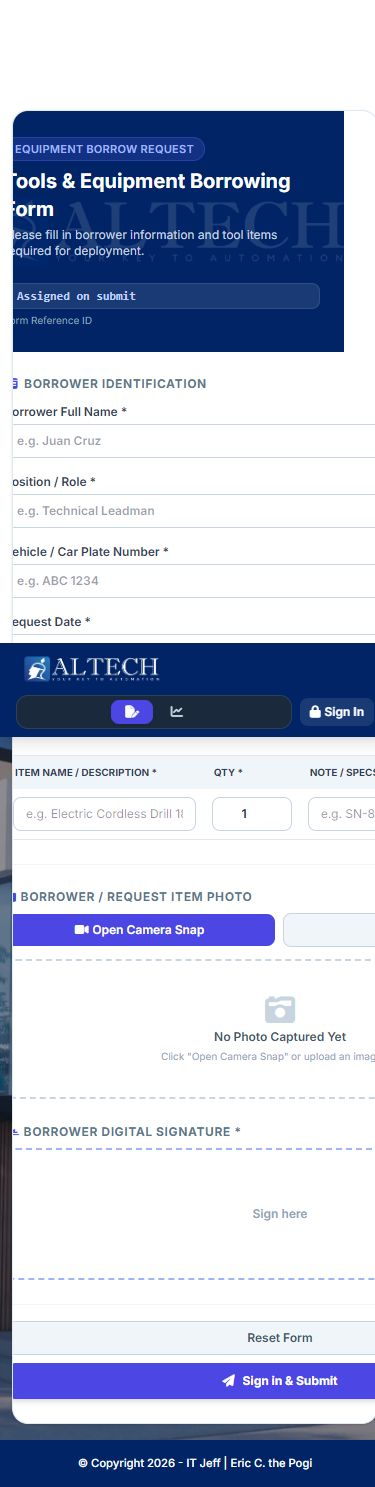
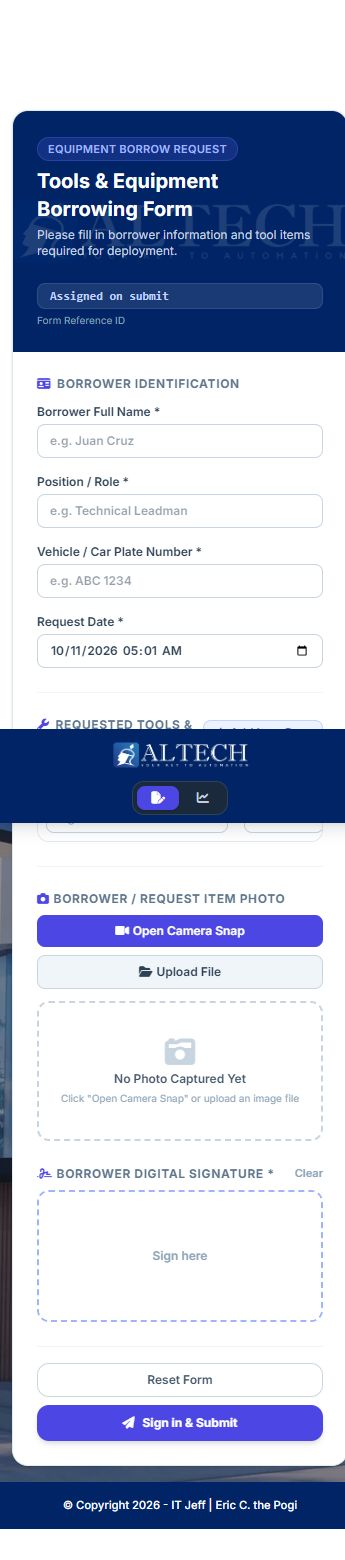
Center controls and adapt forms and request cards for mobile

diff --git a/frontend/src/features/Dashboard.tsx b/frontend/src/features/Dashboard.tsx
@@ -123,7 +123,7 @@ export function Dashboard({
         ))}
       </div>
       <div className="dashboard-actions bg-white p-4 rounded-xl border shadow-sm flex flex-col gap-4">
-        <div className="flex flex-wrap gap-2">
+        <div className="flex flex-wrap justify-center gap-2">
           <button className="btn-secondary" onClick={() => open("qr")}>
             <i className="fas fa-qrcode mr-1" />
             Generate QR
@@ -157,7 +157,7 @@ export function Dashboard({
             Refresh
           </button>
         </div>
-        <div className="flex flex-col sm:flex-row gap-2">
+        <div className="flex flex-col sm:flex-row justify-center gap-2">
           <input
             className="input sm:max-w-xs"
             aria-label="Search requests"
@@ -196,7 +196,7 @@ export function Dashboard({
           <span className="text-xs text-slate-400">Updates every 30s</span>
         </div>
         <div className="overflow-x-auto">
-          <table className="data-table">
+          <table className="data-table request-records">
             <thead>
               <tr>
                 {[
@@ -214,38 +214,38 @@ export function Dashboard({
             <tbody>
               {filtered.map((r) => (
                 <tr key={r.id}>
-                  <td className="font-mono max-w-56 break-all">
+                  <td data-label="Reference / Date" className="font-mono max-w-56 break-all">
                     <b>{r.reference}</b>
                     <p className="text-[10px] text-slate-400">
                       {formatDate(r.request_date)}
                     </p>
                   </td>
-                  <td>
+                  <td data-label="Borrower">
                     <b>{r.borrower_name}</b>
                     <p className="text-[11px] text-slate-500">
                       {r.position} • {r.plate}
                     </p>
                   </td>
-                  <td>
+                  <td data-label="Tools">
                     {r.items.map((i) => (
                       <span className="badge inline-block mr-1 mb-1" key={i.id}>
                         {i.name} ({i.returned_qty}/{i.requested_qty} ret)
                       </span>
                     ))}
                   </td>
-                  <td>
+                  <td data-label="Handover / Return">
                     Rel: {r.released_name || "-"}
                     <br />
                     Rec: {r.received_name || "-"}
                   </td>
-                  <td>
+                  <td data-label="Status">
                     <span
                       className={`badge ${r.status === "Completed" ? "bg-emerald-100 text-emerald-800" : r.status === "Issued" ? "bg-indigo-100 text-indigo-800" : "bg-amber-100 text-amber-800"}`}
                     >
                       {r.status}
                     </span>
                   </td>
-                  <td>
+                  <td data-label="Action">
                     <button
                       className="btn-secondary whitespace-nowrap"
                       onClick={() => inspect(r.id)}
@@ -362,9 +362,10 @@ export function Dashboard({
         <Modal
           wide
           title="System Activity & Audit Logs"
+          centered
           onClose={() => setModal("")}
         >
-          <div className="flex flex-wrap gap-2">
+          <div className="flex flex-wrap justify-center gap-2">
             <input
               className="input sm:w-80"
               placeholder="Search logs by action, user, or details..."

diff --git a/frontend/src/components/ActivityLogDetail.tsx b/frontend/src/components/ActivityLogDetail.tsx
@@ -10,14 +10,14 @@ export function ActivityLogDetail({log,onClose,onInspect}:{log:Log;onClose:()=>v
     if(log.request_id)api<BorrowRequest>("/requests/"+log.request_id).then(r=>{if(active)setRequest(r);}).catch(e=>{if(active)setError(e.message);});
     return ()=>{active=false;};
   },[log.request_id]);
-  return <Modal title="Activity Log Details" onClose={onClose}>
+  return <Modal centered title="Activity Log Details" onClose={onClose}>
     <p className="text-xs">{formatDate(log.created_at)} — {log.actor}</p>
     <h4 className="font-bold">{log.action}</h4><p className="text-sm">{log.details}</p>
     {log.request_id && !request && !error && <p role="status" className="text-xs">Loading photos and signatures…</p>}
     {error && <p role="alert" className="text-sm text-rose-600">{error}</p>}
     {!!request?.attachments?.length && <div className="bg-purple-50 border border-purple-100 rounded-lg p-3">
       <h4 className="text-xs font-bold text-purple-800 mb-2">Photos & Signatures — {request.reference}</h4>
-      <div className="flex gap-3 overflow-x-auto pb-2">{request.attachments.map(a=><button key={a.id} className="relative shrink-0 group" onClick={()=>setPreview(a)} aria-label={`Preview ${labels[a.kind] || a.kind}`}>
+      <div className="flex flex-wrap justify-center gap-3 pb-2">{request.attachments.map(a=><button key={a.id} className="relative shrink-0 group" onClick={()=>setPreview(a)} aria-label={`Preview ${labels[a.kind] || a.kind}`}>
         <img src={`/api/attachments/${a.id}`} alt={labels[a.kind] || a.kind} className="h-20 w-24 object-contain bg-white rounded-lg border border-purple-200 shadow-sm group-hover:opacity-80" />
         <span className="absolute bottom-1 right-1 bg-slate-900/80 text-white text-[9px] px-1 rounded"><i className="fas fa-search-plus mr-1"/>Preview</span>
         <span className="block text-[10px] max-w-24 mt-1">{labels[a.kind] || a.kind}</span>

diff --git a/frontend/src/styles.css b/frontend/src/styles.css
@@ -63,6 +63,9 @@ canvas.sig-canvas {
   background: #fff;
   cursor: crosshair;
 }
+fieldset { min-width: 0; }
+.responsive-main, .responsive-main .grid > *, .mobile-modal .grid > * { min-width: 0; }
+canvas.sig-canvas { max-width: 100%; display: block; }
 .responsive-main {
   width: min(100%, 80rem);
   padding-inline: clamp(0.75rem, 3vw, 2rem);
@@ -131,15 +134,16 @@ canvas.sig-canvas {
   .app-header .brand-logo {
     height: 2.25rem;
     max-width: 150px;
+    margin-inline: auto;
   }
   .app-header .nav-controls {
     width: 100%;
-    justify-content: space-between;
+    justify-content: center;
     flex-wrap: wrap;
     gap: 0.5rem;
   }
   .app-header .tab-switcher {
-    flex: 1;
+    flex: 0 1 auto;
     justify-content: center;
   }
   .responsive-main {
@@ -176,6 +180,16 @@ canvas.sig-canvas {
   footer {
     font-size: 0.7rem;
   }
+  .request-records, .request-records tbody { display: block; }
+  .request-records thead { display: none; }
+  .request-records tbody { padding: 0.75rem; }
+  .request-records tr { display: block; border: 1px solid #e2e8f0; border-radius: 0.75rem; margin-bottom: 0.75rem; overflow: hidden; background: white; }
+  .request-records td { display: block; max-width: none; padding: 0.65rem 0.85rem; overflow-wrap: anywhere; }
+  .request-records td::before { content: attr(data-label); display: block; font-family: Inter, sans-serif; font-size: 10px; font-weight: 700; color: #64748b; text-transform: uppercase; margin-bottom: 0.3rem; }
+  .request-records td:first-child { background: #f8fafc; word-break: normal; }
+  .request-records td:last-child { text-align: center; border-bottom: none; }
+  .request-records td:last-child button { width: 100%; min-height: 2.75rem; }
+  .dashboard-actions button { min-height: 2.5rem; }
 }
 @media (min-width: 641px) and (max-width: 1024px) {
   .app-header .nav-inner {

diff --git a/frontend/src/components/Modal.tsx b/frontend/src/components/Modal.tsx
@@ -4,11 +4,13 @@ export function Modal({
   onClose,
   children,
   wide = false,
+  centered = false,
 }: {
   title: string;
   onClose: () => void;
   children: ReactNode;
   wide?: boolean;
+  centered?: boolean;
 }) {
   const ref = useRef<HTMLDivElement>(null);
   useEffect(() => {
@@ -59,17 +61,17 @@ export function Modal({
         }}
         className={`bg-white rounded-2xl shadow-2xl ${wide ? "max-w-5xl" : "max-w-md"} w-full overflow-hidden border border-slate-100 max-h-[90dvh] flex flex-col`}
       >
-        <div className="bg-slate-900 px-6 py-4 text-white flex justify-between items-center shrink-0">
-          <h3 className="font-bold text-base">{title}</h3>
+        <div className="relative bg-slate-900 px-6 py-4 text-white flex justify-between items-center shrink-0">
+          <h3 className={`font-bold text-base ${centered ? "w-full text-center px-5" : ""}`}>{title}</h3>
           <button
             aria-label="Close dialog"
             onClick={onClose}
-            className="text-slate-400 hover:text-white"
+            className={`text-slate-400 hover:text-white ${centered ? "absolute right-6" : ""}`}
           >
             <i className="fas fa-times" />
           </button>
         </div>
-        <div className="p-6 overflow-y-auto space-y-4">{children}</div>
+        <div className={`p-6 overflow-y-auto space-y-4 ${centered ? "text-center" : ""}`}>{children}</div>
       </div>
     </div>
   );

diff --git a/frontend/src/components/Photo.tsx b/frontend/src/components/Photo.tsx
@@ -39,7 +39,7 @@ export function Photo({
         <i className="fas fa-camera text-indigo-600 mr-1" />
         {label}
       </label>
-      <div className="flex items-center gap-2 mb-3">
+      <div className="flex flex-col sm:flex-row items-stretch gap-2 mb-3">
         <button
           type="button"
           onClick={() => setCamera(true)}
